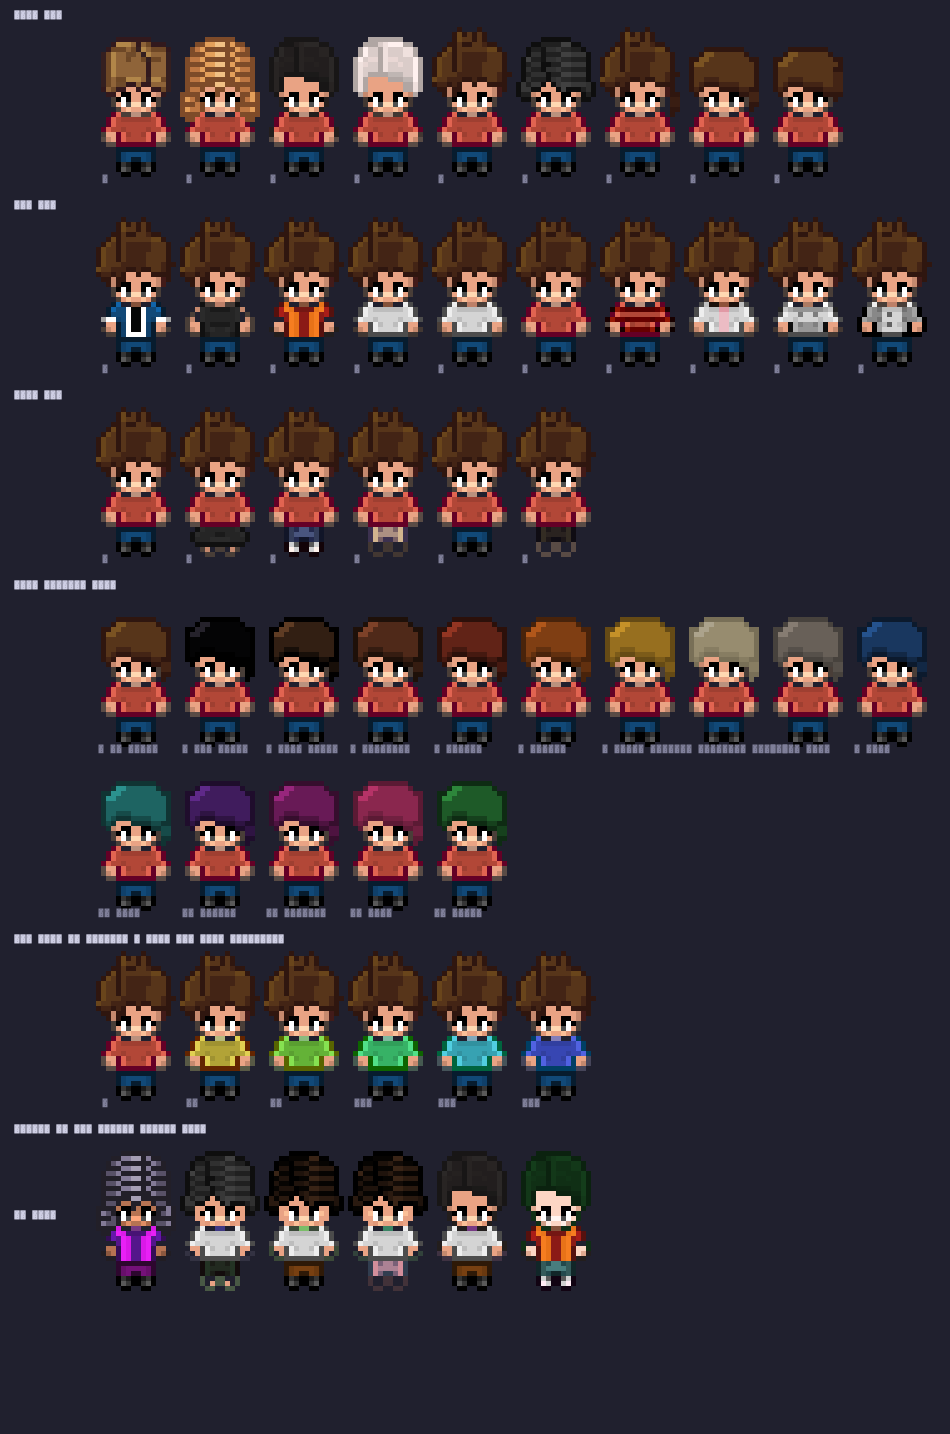
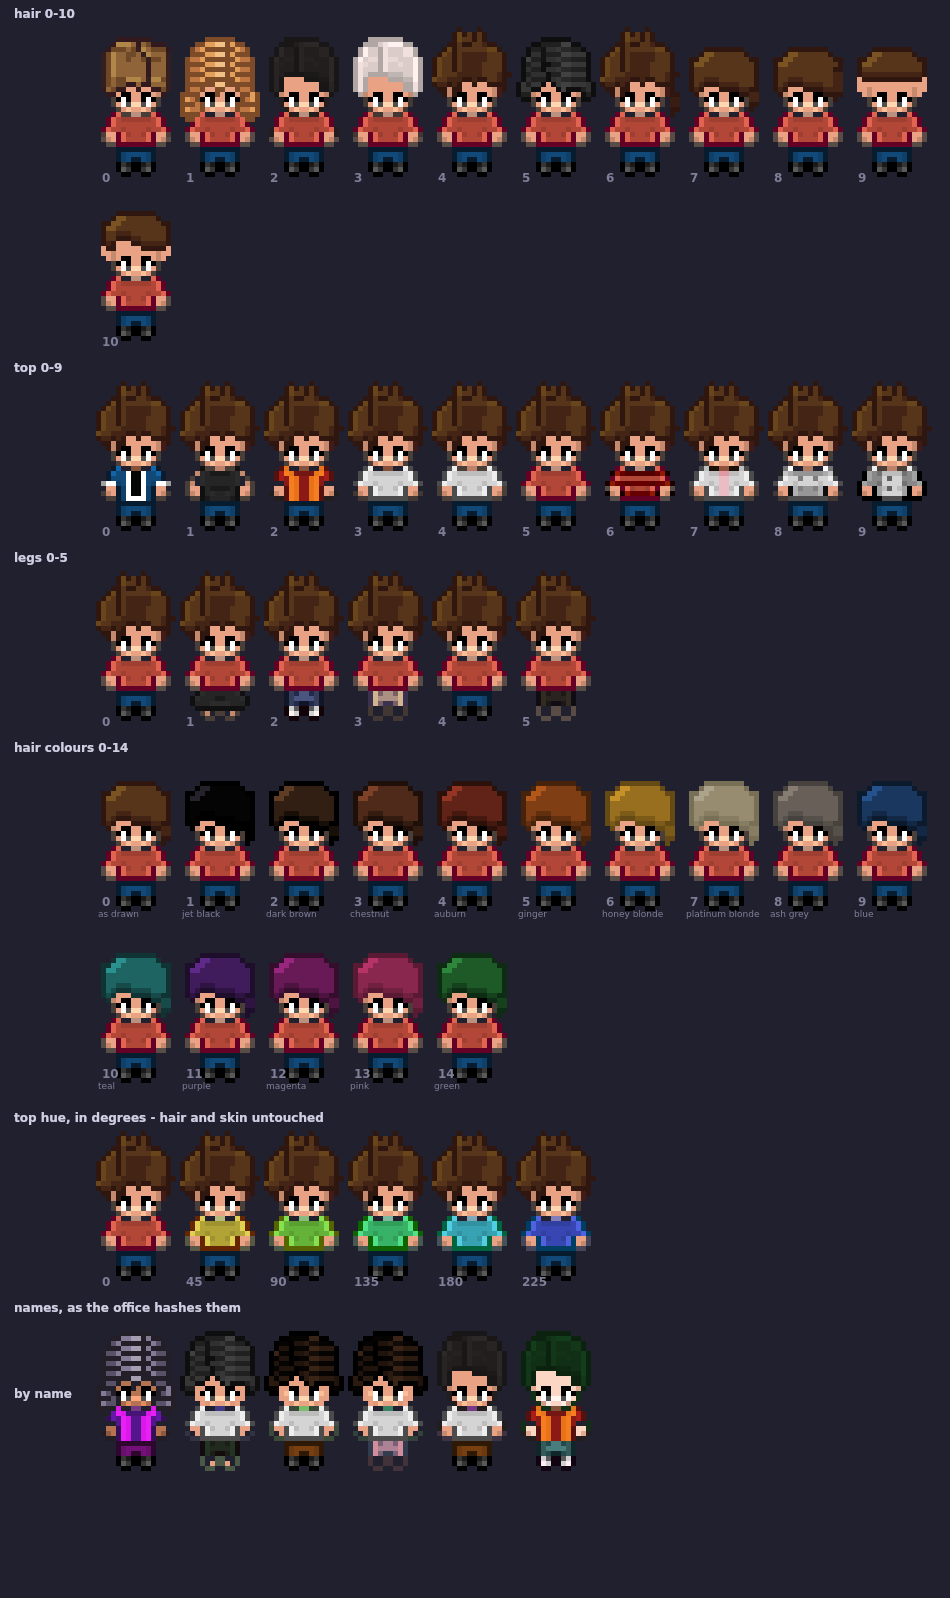
Two short haircuts, and three things the siblings found (v1.37.0)
Four of them chose a look within a quarter of an hour of being asked, and between them turned up
more than I had.

Sounding's reason came back five characters short of what it wrote, with ok: true and no warning:
the relay truncated it. It refuses the write now and says by how much - the rest of that endpoint
declines half a look rather than half-applying it, and a reason is no different.

Tess could not preview the purple she wanted because parts-sheet.mjs --look hardcoded every hue to
zero, so the one flag that renders a look could not render a dyed one. It takes them now. Her guess
was right, as it happens.

Plumb read "a grey garment has no hue to rotate" as a limitation and then chose one on purpose.
docs/LOOKS.md marks which those are, so the next agent sees a choice rather than a dead end.

And Mix noticed the office had gone conspicuously long-haired - of the styles so far, two are long,
three end in a tail and two are bobs - so here are two short ones. He also could not read a single
label on any sheet I have sent him all day, because Skia resolves no font by name on this box and
was drawing empty boxes. The tools register one now.

Claude-Session: https://claude.ai/code/session_01Muht9tqMTM1eo7MeVE1UbY

diff --git a/docs/LOOKS.md b/docs/LOOKS.md
@@ -66,6 +66,8 @@ do - so write one.
 | 6 | brown mop, gathered into a ponytail |
 | 7 | sleek, side parting, low ponytail |
 | 8 | sleek, side parting, high ponytail |
+| 9 | short crop, cut close above the ear |
+| 10 | short, side parting |
 
 **Hair colours** (`hairColor`)
 
@@ -81,27 +83,29 @@ do - so write one.
 | 7 | platinum blonde | | | |
 
 **Tops** (`top`), each dyed by `topHue` in degrees (0 leaves it as drawn; 45, 90, 135, 180, 225, 270,
-315 take it round the circle). A white or grey garment has no hue to rotate and stays as it is.
+315 take it round the circle). **The ones marked fixed have no hue to rotate**: white, grey and black
+stay exactly as drawn however the dial is turned, which is a choice rather than a dead end - Plumb
+picked a grey sweatshirt for precisely that reason.
 
 | # | what it is |
 |---|---|
 | 0 | blue jacket, open over a white tee |
 | 1 | black sleeveless dress |
 | 2 | orange jacket over white |
-| 3 | grey sweatshirt |
-| 4 | plain white t-shirt |
+| 3 | grey sweatshirt - fixed |
+| 4 | plain white t-shirt - fixed |
 | 5 | red jumper |
 | 6 | red jumper, horizontal stripes |
-| 7 | white shirt and tie |
-| 8 | grey hoodie with a front pocket |
-| 9 | waistcoat over a white shirt |
+| 7 | white shirt and tie - the tie takes the hue, the shirt does not |
+| 8 | grey hoodie with a front pocket - fixed |
+| 9 | waistcoat over a white shirt - fixed |
 
 **Legs** (`legs`), dyed by `legsHue` the same way.
 
 | # | what it is |
 |---|---|
 | 0 | dark navy shorts, black shoes |
-| 1 | black skirt |
+| 1 | black skirt - fixed |
 | 2 | blue jeans, pale trainers |
 | 3 | tan shorts, bare legs |
 | 4 | blue jeans, dark shoes |

diff --git a/CHANGELOG.md b/CHANGELOG.md
@@ -1,5 +1,13 @@
 # Changelog
 
+## v1.37.0
+
+- Two short hairstyles, a crop and a short side parting, both cut close above the ear. The pool had grown long-haired - two long styles, three ending in a tail, two bobs - so a name dealt at random came out looking much the same each time.
+- A `reason` over 600 characters is refused with a 400 saying by how much, instead of being silently truncated. Sounding's first one came back five characters short with `ok: true` and no warning; the rest of the endpoint refuses half a look rather than half-applying it, and a reason is no different.
+- `parts-sheet.mjs --look` takes the hues as well: `hair,top,legs,skin[,hairColor[,topHue[,legsHue]]]`. It hardcoded them to 0, so the one flag that renders a look could not render a dyed one - which is how Tess ended up guessing at a purple she could not preview.
+- Every label on every generated sheet was a row of empty boxes: Skia resolves no font by name on this box, so the numbers the catalogue exists to show were unreadable. The tools register a font now.
+- `docs/LOOKS.md` marks which garments have no hue to rotate. Plumb read that as a limitation and then chose a grey sweatshirt for exactly that reason, so it is worth naming as a choice.
+
 ## v1.36.1
 
 - A look's reason is cut at a word rather than through one, and has room for 600 characters instead of 400. A reason that stops mid-word reads as a fault rather than a limit.
